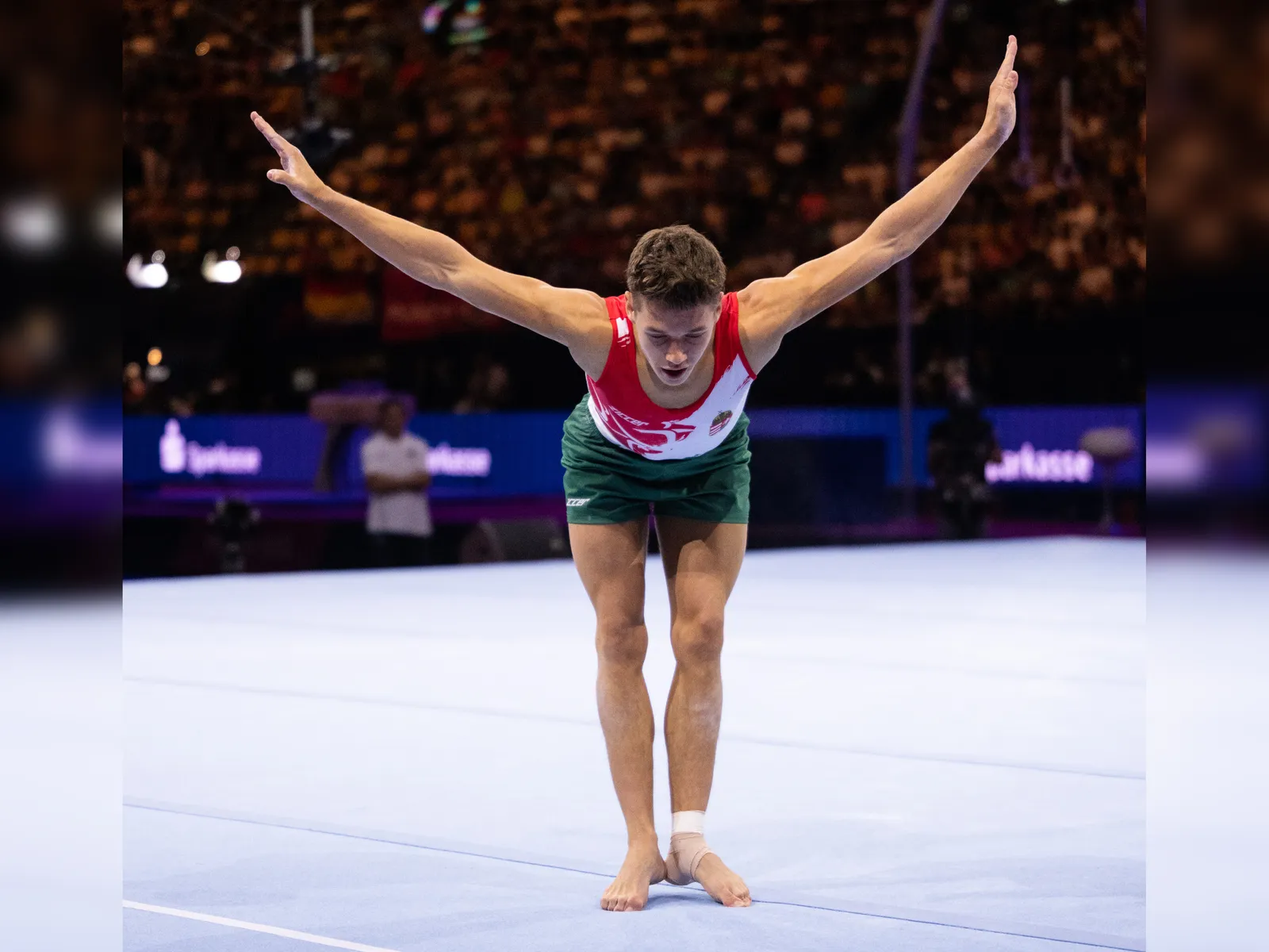
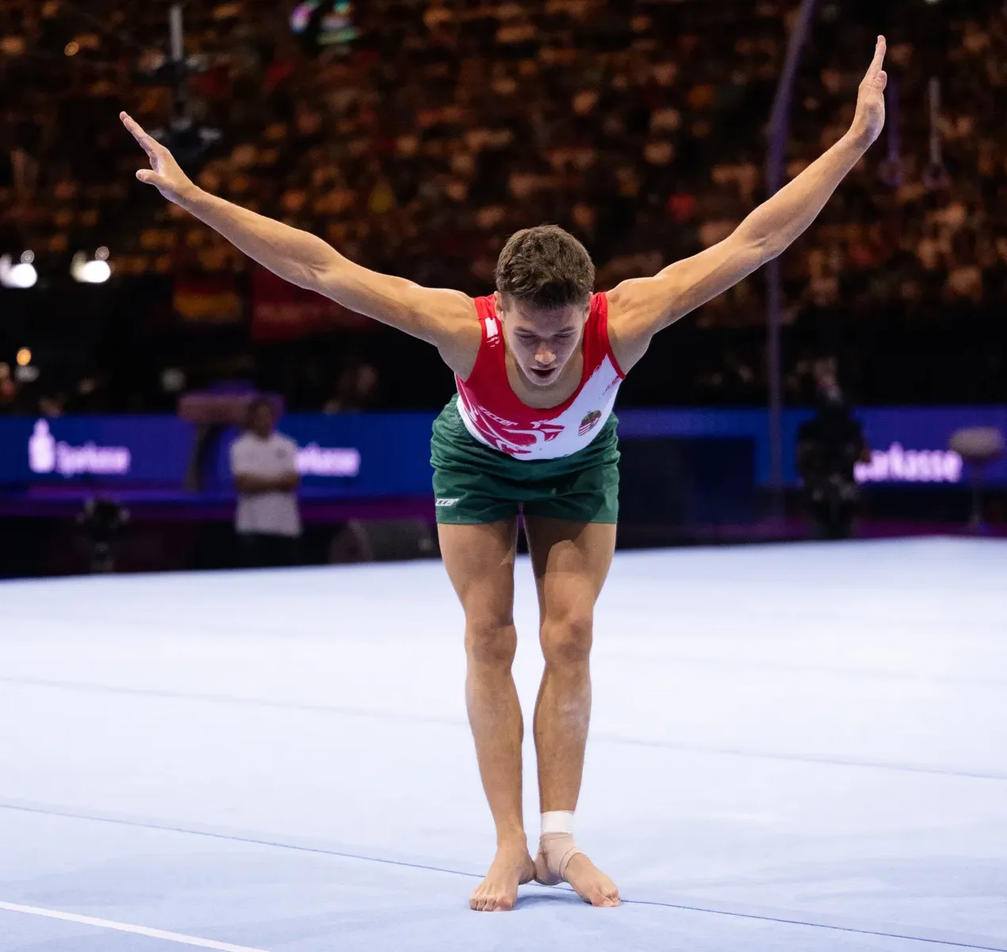
final programme and disciplines

diff --git a/app/[lang]/components/discipline-card.tsx b/app/[lang]/components/discipline-card.tsx
@@ -17,6 +17,8 @@ type Phase = "closed" | "measuring" | "opening" | "open" | "closing";
 
 type Props = {
   name: string;
+  // Shorter name for the narrow phone card, when the full one does not fit. The open view uses `name`.
+  shortName?: string;
   description: string;
   more: string;
   mixedLabel?: string;
@@ -46,6 +48,7 @@ const DURATION = 450;
 // which would otherwise become the containing block of a `position: fixed` child.
 export function DisciplineCard({
   name,
+  shortName,
   description,
   more,
   mixedLabel,
@@ -182,11 +185,13 @@ export function DisciplineCard({
       ? to
       : from;
   // Photo height is set explicitly (and animated with the box) so it matches the card at both ends.
+  // In the open view on a phone the photo is wider than tall (shorter than the card's 4:3), so the text fits without scrolling.
+  const openRatio = to && to.width < 600 ? 0.6 : 0.75;
   const imageHeight =
     measuring && to
-      ? to.width * 0.75
+      ? to.width * openRatio
       : phase === "open" && to
-      ? Math.min(to.width * 0.75, to.height * 0.6)
+      ? Math.min(to.width * openRatio, to.height * 0.6)
       : (from?.width ?? 0) * 0.75;
   const expanded = phase === "open";
   // The measuring pass needs the long text visible, or the height would be too small.
@@ -211,26 +216,37 @@ export function DisciplineCard({
             width={photo.width}
             height={photo.height}
             alt=""
-            sizes="(min-width: 1280px) 400px, (min-width: 640px) 50vw, 100vw"
+            sizes="(min-width: 1280px) 400px, 50vw"
             className={`aspect-4/3 w-full object-cover transition-transform duration-500 motion-reduce:transition-none ${
               hoverZoom ? "group-hover:scale-105" : ""
             }`}
           />
           <span
             aria-hidden="true"
-            className="absolute right-3 top-3 grid size-9 place-items-center bg-white/90 text-brand"
+            className="absolute right-2 top-2 grid size-7 place-items-center bg-white/90 text-brand sm:right-3 sm:top-3 sm:size-9"
           >
-            <svg viewBox="0 0 24 24" className="size-5" fill="none" stroke="currentColor" strokeWidth="2.5" strokeLinecap="round">
+            <svg viewBox="0 0 24 24" className="size-4 sm:size-5" fill="none" stroke="currentColor" strokeWidth="2.5" strokeLinecap="round">
               <path d="M12 5v14M5 12h14" />
             </svg>
           </span>
         </div>
-        <div className="flex flex-1 flex-col px-5 py-5">
-          <h4 className="text-lg font-bold lg:text-xl">{name}</h4>
-          <p className="mt-1 text-base">{description}</p>
+        {/* Phone: name only (two columns); the description is shown in the open view. */}
+        <div className="flex flex-1 flex-col px-3 py-4 min-[400px]:px-4 sm:px-5 sm:py-5">
+          {/* hyphens-auto uses the page language; wrap-break-word is the fallback for a word that is still too wide (e.g. "Հավասարակշռության"). */}
+          <h4 className="text-[0.9375rem] font-bold min-[400px]:text-base wrap-break-word hyphens-auto sm:text-lg lg:text-xl">
+            {shortName ? (
+              <>
+                <span className="sm:hidden">{shortName}</span>
+                <span className="max-sm:hidden">{name}</span>
+              </>
+            ) : (
+              name
+            )}
+          </h4>
+          <p className="mt-1 hidden text-base sm:block">{description}</p>
           {mixedLabel && (
-            <p className="mt-auto pt-4 text-sm font-bold">
-              <span className="bg-accent px-2 py-0.5 text-white">
+            <p className="mt-auto hidden pt-4 text-sm font-bold sm:block">
+              <span className="inline-block bg-accent px-2 py-0.5 text-white">
                 {mixedLabel}
               </span>
             </p>
@@ -308,14 +324,34 @@ export function DisciplineCard({
               {/* Same structure as the card (heading, text, tag at the bottom), so the last frame of the
                   closing animation lines up with the real card. */}
               <div
-                className={`flex min-h-0 flex-1 flex-col overscroll-contain px-5 py-5 ${
+                className={`flex min-h-0 flex-1 flex-col overscroll-contain px-3 py-4 min-[400px]:px-4 sm:px-5 sm:py-5 ${
                   settled ? "overflow-y-auto" : "overflow-hidden"
                 }`}
               >
-                <h4 id={titleId} className="text-lg font-bold lg:text-xl">
-                  {name}
+                {/* On a phone the name grows once the view is open, so it stands out from the text below. */}
+                <h4
+                  id={titleId}
+                  className={`font-bold wrap-break-word hyphens-auto transition-[font-size] duration-300 motion-reduce:transition-none sm:text-lg lg:text-xl ${
+                    showMore ? "text-xl" : "text-[0.9375rem] min-[400px]:text-base"
+                  }`}
+                >
+                  {shortName && !showMore ? (
+                    <>
+                      <span className="sm:hidden">{shortName}</span>
+                      <span className="max-sm:hidden">{name}</span>
+                    </>
+                  ) : (
+                    name
+                  )}
                 </h4>
-                <p className="mt-1 text-base">{description}</p>
+                {/* On a phone the card has no description, so hide it here until the view is open. */}
+                <p
+                  className={`text-base sm:mt-1 ${
+                    showMore ? "mt-4" : "max-sm:hidden"
+                  }`}
+                >
+                  {description}
+                </p>
                 {/* Collapsed to zero height until open, so it takes no space in the card-sized state. */}
                 <div
                   className="grid transition-[grid-template-rows,opacity] motion-reduce:transition-none"
@@ -326,7 +362,7 @@ export function DisciplineCard({
                   }}
                 >
                   <div className="overflow-hidden">
-                    <p className="mt-4 text-base">{more}</p>
+                    <p className="mt-3 text-base sm:mt-4">{more}</p>
                     <p className="mt-6 text-xs">
                       {labels.photo}:{" "}
                       <a
@@ -351,8 +387,12 @@ export function DisciplineCard({
                   </div>
                 </div>
                 {mixedLabel && (
-                  <p className="mt-auto pt-4 text-sm font-bold">
-                    <span className="bg-accent px-2 py-0.5 text-white">
+                  <p
+                    className={`mt-auto pt-4 text-sm font-bold ${
+                      showMore ? "" : "max-sm:hidden"
+                    }`}
+                  >
+                    <span className="inline-block bg-accent px-2 py-0.5 text-white">
                       {mixedLabel}
                     </span>
                   </p>

diff --git a/app/[lang]/dictionaries/hy.ts b/app/[lang]/dictionaries/hy.ts
@@ -49,7 +49,6 @@ const hy: Dictionary = {
       { iso: "2027-05-01", day: "Շաբաթ", date: "Մայիսի 1", tag: "Եզրափակիչ", session: "Առանձին սարքերի եզրափակիչներ, մաս 2 (կանայք և տղամարդիկ)" },
       { iso: "2027-05-02", day: "Կիրակի", date: "Մայիսի 2", tag: "Եզրափակիչ", session: "Խառը թիմերի եզրափակիչ" },
     ],
-    note: "Նախնական ծրագիր, կարող է փոփոխվել։ Պաշտոնական ժամանակացույցը կհրապարակվի այստեղ։",
   },
   disciplines: {
     title: "Մարզաձևեր",
@@ -62,7 +61,6 @@ const hy: Dictionary = {
       { value: "16", label: "թիմ խառը թիմերի եզրափակիչում" },
     ],
     tags: { mixed: "Խառը թիմերի եզրափակիչ" },
-    tagsLegend: "Վարդագույն պիտակը նշում է խառը թիմերի եզրափակիչում օգտագործվող սարքերը։",
     photos: { label: "Լուսանկար", labelPlural: "Լուսանկարներ", licence: "CC BY-SA 4.0", cropped: "կտրված", source: "Wikimedia Commons" },
     details: { open: "Բացել մանրամասները", close: "Փակել" },
     groups: [
@@ -84,7 +82,7 @@ const hy: Dictionary = {
         apparatus: [
           { id: "vault-women", name: "Հենացատկ", mixed: true, description: "Արագ թափավազք, հզոր հրում հենացատկի սեղանից, օդային շրջումներ ու պտույտներ և ճշգրիտ վայրէջք։", more: "Մարզուհին մինչև 25 մ երկարությամբ վազքուղով արագություն է հավաքում, ցատկում ցատկատախտակից և երկու ձեռքով հրվում 125 սմ բարձրությամբ հենացատկի սեղանից։ Թռիչքի ընթացքում նա կարող է կատարել օդային շրջումներ և պտույտներ, ապա վայրէջք կատարել երկու ոտքով։ Գնահատման համար կարևոր են թռիչքի բարձրությունն ու հեռավորությունը, մարմնի վերահսկումն ու վայրէջքի ճշգրտությունը։" },
           { id: "uneven", name: "Տարբեր բարձրության զուգափայտեր", mixed: false, description: "Անընդհատ ճոճումներ, օդային տարրեր և անցումներ տարբեր բարձրության երկու ձողերի միջև։", more: "Երկու զուգափայտերը տեղադրված են տարբեր բարձրությունների վրա՝ մոտ 1,7 և 2,5 մ։ Մարզուհիները ճոճվում են ձողերի շուրջ, փոխում ձեռքերի բռնվածքը և անցնում մի ձողից մյուսը՝ երբեմն օդում բաց թողնելով ու կրկին բռնելով ձողը։ Դատավորները գնահատում են բարդ տարրերի կատարումը, շարժումների սահունությունը, ճշգրտությունն ու վերահսկումը, ինչպես նաև ավարտական վայրէջքը։" },
-          { id: "beam", name: "Հավասարակշռության գերան", mixed: true, description: "Ակրոբատիկ տարրեր, ցատկեր, պտույտներ և հավասարակշռության պահպանում՝ ընդամենը 10 սմ լայնությամբ գերանի վրա։", more: "Գերանն ունի 5 մ երկարություն, ընդամենը 10 սմ լայնություն և գտնվում է հատակից 125 սմ բարձրության վրա։ Մինչև 90 վայրկյան տևողությամբ վարժության ընթացքում մարզուհիները կատարում են ցատկեր, պտույտներ, պարային շարժումներ և բարդ ակրոբատիկ տարրեր, այդ թվում՝ օդային շրջումներ։ Հաջող ելույթը պահանջում է բացառիկ հավասարակշռություն, ճշգրտություն և մարմնի վերահսկում։ Վարժությունն ավարտվում է գերանից թռիչքով և վայրէջքով։" },
+          { id: "beam", name: "Հավասարակշռության գերան", shortName: "Գերան", mixed: true, description: "Ակրոբատիկ տարրեր, ցատկեր, պտույտներ և հավասարակշռության պահպանում՝ ընդամենը 10 սմ լայնությամբ գերանի վրա։", more: "Գերանն ունի 5 մ երկարություն, ընդամենը 10 սմ լայնություն և գտնվում է հատակից 125 սմ բարձրության վրա։ Մինչև 90 վայրկյան տևողությամբ վարժության ընթացքում մարզուհիները կատարում են ցատկեր, պտույտներ, պարային շարժումներ և բարդ ակրոբատիկ տարրեր, այդ թվում՝ օդային շրջումներ։ Հաջող ելույթը պահանջում է բացառիկ հավասարակշռություն, ճշգրտություն և մարմնի վերահսկում։ Վարժությունն ավարտվում է գերանից թռիչքով և վայրէջքով։" },
           { id: "floor-women", name: "Ազատ վարժություններ", mixed: true, description: "Ակրոբատիկ անցումների և պարային շարժումների համադրություն՝ երաժշտության, ռիթմի և գեղարվեստական արտահայտչականության ուղեկցությամբ։", more: "12 × 12 մ չափերի առաձգական հարթակի վրա մարզուհիները կատարում են մինչև 90 վայրկյան տևողությամբ վարժություն՝ երաժշտության ուղեկցությամբ։ Հզոր ակրոբատիկ անցումները, օդային շրջումներն ու պտույտները համադրվում են ցատկերի, պարային շարժումների և խորեոգրաֆիայի հետ։ Դատավորները գնահատում են տարրերի բարդությունն ու կատարման որակը, ինչպես նաև գեղարվեստականությունը և երաժշտության հետ շարժումների ներդաշնակությունը։" },
         ],
       },

diff --git a/app/[lang]/components/programme.tsx b/app/[lang]/components/programme.tsx
@@ -17,7 +17,10 @@ export async function Programme() {
   }, []);
 
   return (
-    <section id="programme" className="pt-12 pb-16 lg:pt-16 lg:pb-24">
+    <section
+      id="programme"
+      className="mt-12 bg-linear-to-br from-brand to-brand-deep py-16 text-white lg:mt-16 lg:py-24"
+    >
       <div className="mx-auto w-full max-w-7xl px-4 md:px-8">
         <h2 className="text-3xl font-bold lg:text-5xl">{programme.title}</h2>
 
@@ -25,26 +28,43 @@ export async function Programme() {
           {days.map((d, dayIndex) => (
             <li
               key={d.iso}
-              className="grid gap-2 border-l-8 border-brand bg-white px-5 py-4 md:grid-cols-[16rem_1fr] md:items-center md:gap-8 md:px-8 md:py-5"
+              className="grid grid-cols-[auto_1fr] md:grid-cols-[7rem_15rem_1fr]"
             >
-              <time dateTime={d.iso} className="font-bold">
-                <span className="block text-xl text-brand lg:text-2xl">
+              <p
+                aria-hidden="true"
+                className="flex w-16 flex-col items-center justify-center bg-brand-deep px-2 py-3 font-bold md:w-auto md:px-3 md:py-4"
+              >
+                <span className="text-[0.65rem] tracking-widest uppercase md:text-xs">
+                  {programme.dayLabel}
+                </span>
+                <span className="text-3xl leading-none md:text-4xl lg:text-5xl">
+                  {dayIndex + 1}
+                </span>
+              </p>
+              {/* White date block, like the white date bar on the official artwork. */}
+              <time
+                dateTime={d.iso}
+                className="flex flex-col justify-center bg-white px-4 py-2 font-bold md:px-8 md:py-5"
+              >
+                <span className="block text-lg text-brand md:text-xl lg:text-2xl">
                   {d.date}
                 </span>
-                <span className="block text-sm tracking-widest uppercase">
-                  {d.day} · {programme.dayLabel} {dayIndex + 1}
+                <span className="block text-xs tracking-widest text-brand uppercase md:text-sm">
+                  {d.day}
                 </span>
               </time>
-              <ul className="space-y-3">
+              <ul className="col-span-2 divide-y divide-white/20 bg-brand-deep/60 px-4 py-3 md:col-span-1 md:space-y-3 md:divide-y-0 md:bg-white/10 md:px-8 md:py-5">
                 {d.sessions.map((s, i) => (
-                  <li key={s.session}>
+                  <li key={s.session} className="py-2 first:pt-0 last:pb-0 md:py-0">
                     {/* Show the stage label once, not again for a second session of the same kind. */}
                     {s.tag !== d.sessions[i - 1]?.tag && (
-                      <p className="text-xs font-bold tracking-widest text-brand uppercase">
-                        {s.tag}
+                      <p className="mb-1">
+                        <span className="inline-block bg-accent px-2 py-0.5 text-[0.65rem] font-bold tracking-widest uppercase md:text-xs">
+                          {s.tag}
+                        </span>
                       </p>
                     )}
-                    <p className="text-lg font-bold lg:text-xl">{s.session}</p>
+                    <p className="text-base md:text-lg lg:text-xl">{s.session}</p>
                   </li>
                 ))}
               </ul>
@@ -52,12 +72,10 @@ export async function Programme() {
           ))}
         </ol>
 
-        <p className="mt-6 text-sm">{programme.note}</p>
-
         {SHOW_TICKETS_BUTTON && (
           <a
             href="#tickets"
-            className="mt-8 inline-block border-2 border-brand px-6 py-3 text-lg font-bold text-brand hover:bg-brand hover:text-white focus-visible:outline-2 focus-visible:outline-offset-2 focus-visible:outline-brand lg:px-8 lg:py-4 lg:text-xl"
+            className="mt-8 inline-block border-2 border-white px-6 py-3 text-lg font-bold hover:bg-white hover:text-brand focus-visible:outline-2 focus-visible:outline-offset-2 focus-visible:outline-white lg:px-8 lg:py-4 lg:text-xl"
           >
             {programme.ticketsButton}
           </a>

diff --git a/app/[lang]/components/disciplines.tsx b/app/[lang]/components/disciplines.tsx
@@ -16,28 +16,27 @@ export async function Disciplines() {
         <h2 className="text-3xl font-bold lg:text-5xl">{disciplines.title}</h2>
         <p className="mt-4 max-w-2xl text-base">{disciplines.intro}</p>
 
-        <dl className="mt-10 grid grid-cols-2 gap-3 md:grid-cols-5">
+        {/* Phone: one row per stat (number left, label right). From md: five columns. */}
+        <dl className="mt-10 grid grid-cols-1 bg-ech-blue-soft px-2 py-2 text-white md:grid-cols-5 md:px-4 md:py-6">
           {disciplines.stats.map((s) => (
             <div
               key={s.label}
-              className="bg-ech-grey px-5 py-4 max-md:last:col-span-2"
+              className="flex items-center gap-4 px-4 py-3 max-md:border-t max-md:border-white/25 max-md:first:border-t-0 md:block md:border-l md:border-white/25 md:first:border-l-0"
             >
-              <dt className="text-4xl font-bold text-brand lg:text-5xl">
+              <dt className="w-14 shrink-0 text-3xl font-bold md:w-auto md:text-4xl lg:text-5xl">
                 {s.value}
               </dt>
-              <dd className="mt-1 text-sm">{s.label}</dd>
+              <dd className="text-base md:mt-1 md:text-sm">{s.label}</dd>
             </div>
           ))}
         </dl>
-
-        <p className="mt-10 max-w-3xl text-sm">{disciplines.tagsLegend}</p>
 
         {disciplines.groups.map((group) => (
           <div key={group.id} className="mt-10">
             <h3 className="text-2xl font-bold lg:text-3xl">{group.title}</h3>
             <ul
-              className={`mt-4 grid gap-3 sm:grid-cols-2 ${
-                group.id === "men" ? "lg:grid-cols-3" : "lg:grid-cols-4"
+              className={`mt-4 grid grid-cols-2 gap-3 ${
+                group.id === "men" ? "xl:grid-cols-3" : "xl:grid-cols-4"
               }`}
             >
               {group.apparatus.map((a, i) => {
@@ -46,6 +45,7 @@ export async function Disciplines() {
                     <Reveal delay={(i % 4) * 80} className="h-full">
                       <DisciplineCard
                         name={a.name}
+                        shortName={a.shortName}
                         description={a.description}
                         more={a.more}
                         mixedLabel={a.mixed ? tags.mixed : undefined}
@@ -88,18 +88,27 @@ export async function Disciplines() {
           {disciplines.format.steps.map((step, i) => (
             <li
               key={step.title}
-              className="border-l-8 border-brand bg-ech-grey px-5 py-4"
+              // Phone: number and title on one row, text below at full width. From md: number in its own left column.
+              className="grid grid-cols-[auto_1fr] items-center gap-x-3 gap-y-2 bg-ech-grey px-5 py-5 md:flex md:items-start md:gap-4"
             >
-              <p className="text-lg font-bold lg:text-xl">
-                <span className="text-brand">{i + 1}. </span>
-                {step.title}
-              </p>
-              <p className="mt-1 text-base">{step.text}</p>
+              <span
+                aria-hidden="true"
+                className="w-8 shrink-0 text-4xl leading-none font-bold md:w-9 md:text-5xl lg:w-11 lg:text-6xl"
+              >
+                {i + 1}
+              </span>
+              <div className="contents md:block">
+                <p className="text-lg font-bold lg:text-xl">
+                  <span className="sr-only">{i + 1}. </span>
+                  {step.title}
+                </p>
+                <p className="col-span-2 text-base md:mt-1">{step.text}</p>
+              </div>
             </li>
           ))}
         </ol>
 
-        <div className="mt-12 border-l-8 border-brand bg-ech-grey px-5 py-4 md:px-8 md:py-5">
+        <div className="mt-12 bg-ech-grey px-5 py-5 md:px-8 md:py-6">
           <h3 className="text-xl font-bold lg:text-2xl">
             {disciplines.scoring.title}
           </h3>

diff --git a/app/[lang]/dictionaries/en.ts b/app/[lang]/dictionaries/en.ts
@@ -46,7 +46,6 @@ const en = {
       { iso: "2027-05-01", day: "Saturday", date: "1 May", tag: "Finals", session: "Apparatus Finals, part 2 (women and men)" },
       { iso: "2027-05-02", day: "Sunday", date: "2 May", tag: "Finals", session: "Mixed Team Final" },
     ],
-    note: "Provisional programme, subject to change. The official schedule will be published here.",
   },
   disciplines: {
     title: "Disciplines",
@@ -59,7 +58,6 @@ const en = {
       { value: "16", label: "teams in the Mixed Team Final" },
     ],
     tags: { mixed: "Mixed Team Final" },
-    tagsLegend: "The pink tag marks the apparatus used in the Mixed Team Final.",
     photos: { label: "Photo", labelPlural: "Photos", licence: "CC BY-SA 4.0", cropped: "cropped", source: "Wikimedia Commons" },
     details: { open: "Open details", close: "Close" },
     groups: [
@@ -81,7 +79,7 @@ const en = {
         apparatus: [
           { id: "vault-women", name: "Vault", mixed: true, description: "A fast run, an explosive push off the vaulting table, aerial flips and twists, and a controlled landing.", more: "The gymnast sprints along a runway of up to 25 m, jumps from a springboard and pushes off a vaulting table 125 cm high using both hands. In the brief flight that follows, the gymnast may perform flips and twists before landing on both feet. Height, distance, body control and landing precision are important in judging." },
           { id: "uneven", name: "Uneven Bars", mixed: false, description: "Continuous swings, releases and transitions between two bars set at different heights.", more: "The two bars are positioned at different heights, about 1.7 m and 2.5 m. Gymnasts swing around the bars, change grips and move between them, sometimes releasing and catching a bar in midair. Judges look for difficult skills performed with rhythm, precision and control, followed by a clean dismount." },
-          { id: "beam", name: "Balance Beam", mixed: true, description: "A combination of acrobatics, leaps, turns and balance performed on a beam just 10 cm wide.", more: "Just 10 cm wide, the beam is 5 m long and 125 cm above the floor. During a routine lasting up to 90 seconds, gymnasts perform jumps, turns, dance movements and acrobatic skills, sometimes including flips. Success requires remarkable balance, precision and control, and the routine ends with a dismount." },
+          { id: "beam", name: "Balance Beam", shortName: "Balance Beam", mixed: true, description: "A combination of acrobatics, leaps, turns and balance performed on a beam just 10 cm wide.", more: "Just 10 cm wide, the beam is 5 m long and 125 cm above the floor. During a routine lasting up to 90 seconds, gymnasts perform jumps, turns, dance movements and acrobatic skills, sometimes including flips. Success requires remarkable balance, precision and control, and the routine ends with a dismount." },
           { id: "floor-women", name: "Floor Exercise", mixed: true, description: "Acrobatic tumbling and dance movements blended with music, rhythm and artistic expression.", more: "On a 12 × 12 m sprung floor, gymnasts perform routines of up to 90 seconds accompanied by music. Powerful tumbling passes with flips and twists are combined with leaps, turns and choreography. Judges evaluate both the difficulty and execution of the skills, as well as the routine's artistry and musical expression." },
         ],
       },

diff --git a/app/globals.css b/app/globals.css
@@ -11,6 +11,8 @@
   /* Derived from the artwork gradients, not official */
   --color-ech-blue-deep: #02124a;
   --color-ech-pink-deep: #870f28;
+  /* Mid-tone of the Programme session panels (white at 10% over the blue gradient), used flat in Disciplines */
+  --color-ech-blue-soft: #22338a;
 
   /* Brand font is Soleil (licence and Armenian glyphs unresolved), so these are fallbacks for now */
   --font-sans: "Soleil", "Noto Sans Armenian", system-ui, sans-serif;

diff --git a/app/[lang]/components/discipline-photos.ts b/app/[lang]/components/discipline-photos.ts
@@ -22,7 +22,7 @@ const womenFinal =
 export const disciplinePhotos: Record<string, Photo> = {
   "floor-men": {
     src: "/images/disciplines/floor-men.webp",
-    width: 1600,
+    width: 1270,
     height: 1200,
     author: seibert,
     source: `${commons}${menFinal}Floor_exercise_(Norman_Seibert)_-_DSC_7665.jpg`,
